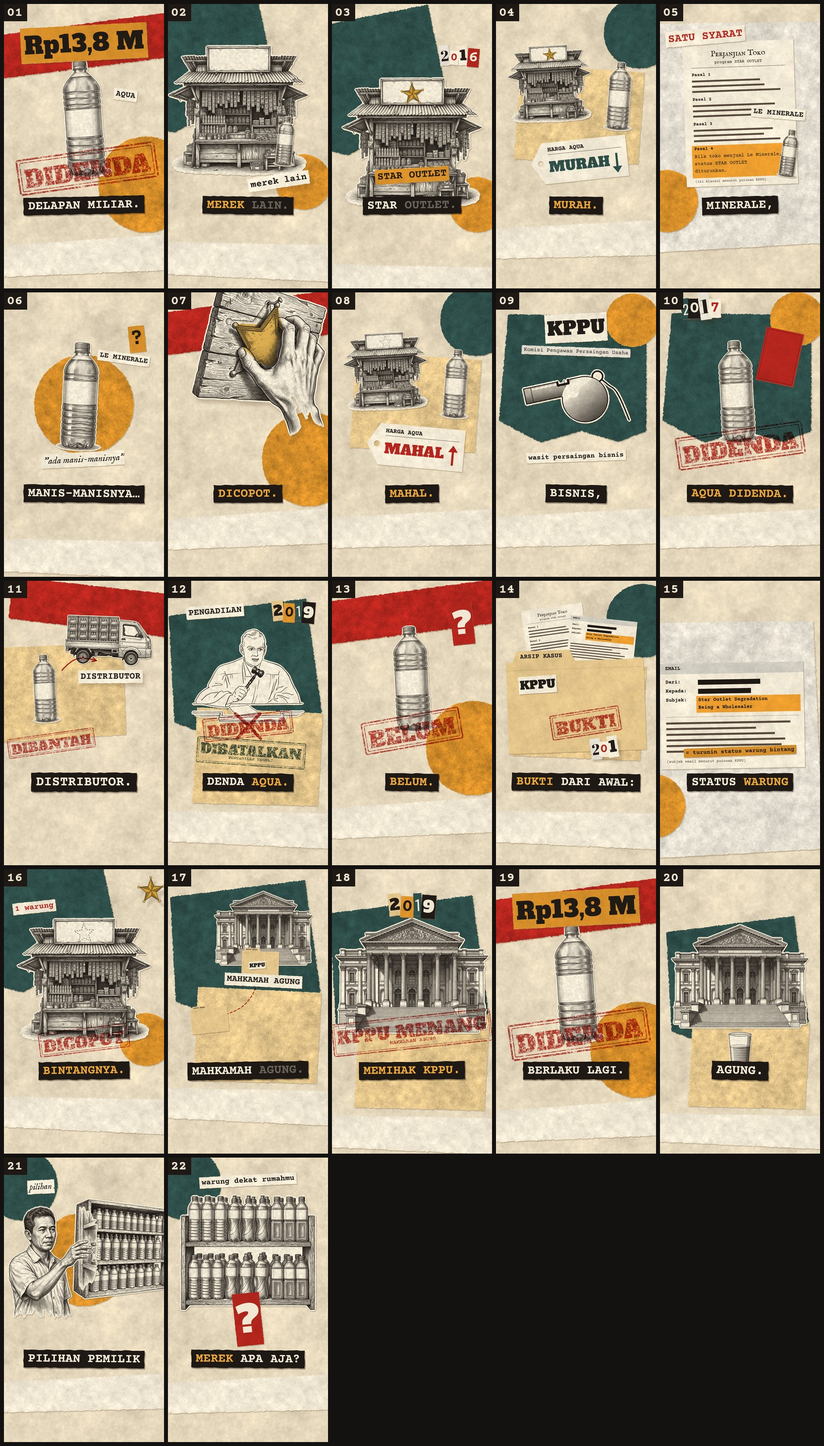
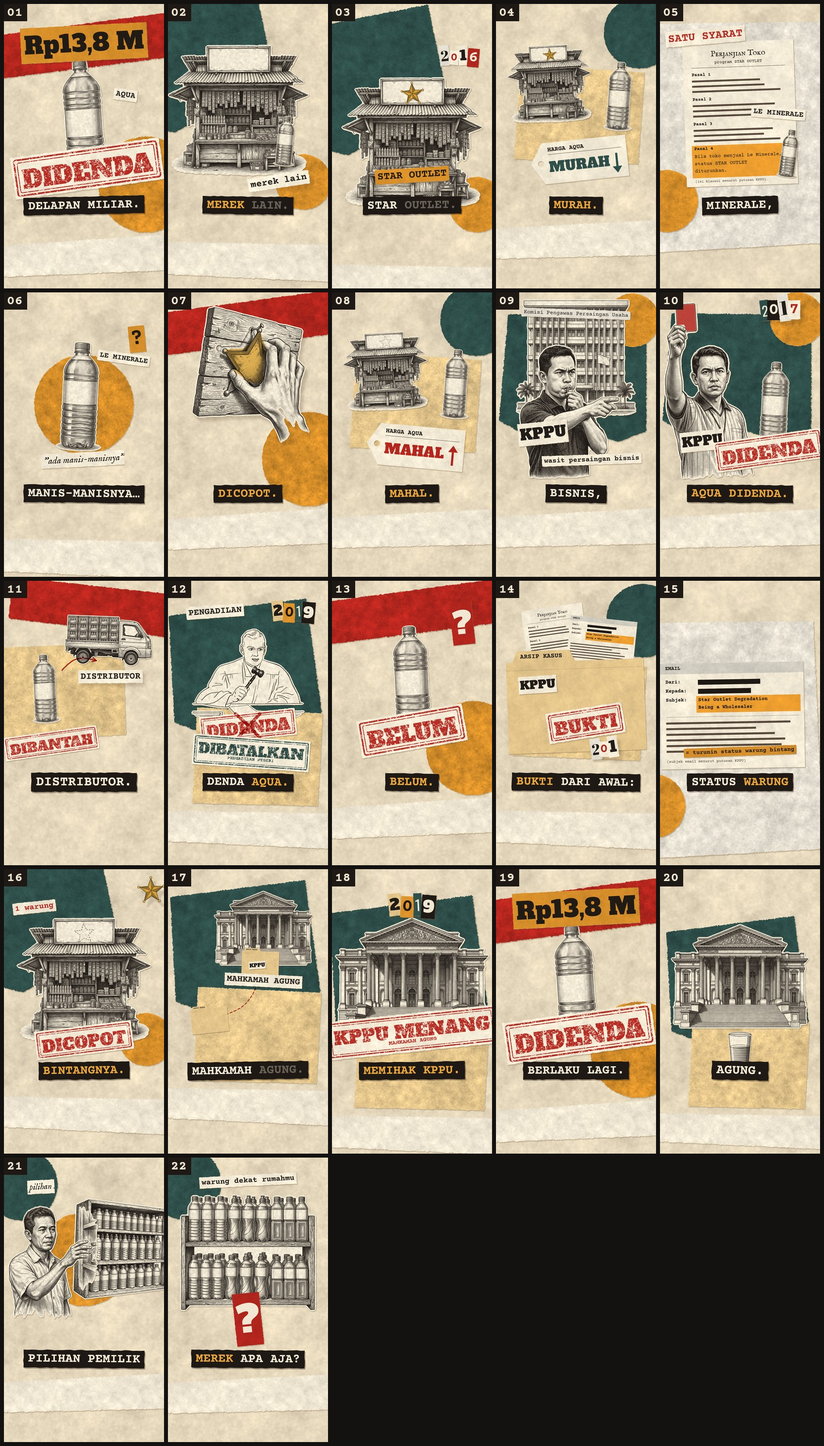
ARSIP #004 aqua: storyboard v1b (referee + office AI images in S09/S10, stamps on cream cards, S07 in frame)
Claude-Session: https://claude.ai/code/session_01BfnoLVZri9uAPP3UdHeCe6

diff --git a/stories/aqua/kolase/film.js b/stories/aqua/kolase/film.js
@@ -94,7 +94,7 @@ const SHOTS = [
   (u, T, d) => {
     const tc = at(6, 'dicopot');
     stage(u, d, { z0: 1.0, z1: 1.06, shake: [[tc + 0.1, 16]] }); bg(SET.hook);
-    putK('hand_star', [[0, 1100, 700, 12, 2, 1], [0.2, 560, 660, 0, 0, 1, 'back', 0.8], [tc, 560, 660, 0, 0, 1, 'hold'], [tc + 0.14, 680, 470, 14, 3.5, 1, 'out']], u, 80, { s: 1.15 });
+    putK('hand_star', [[0, 1100, 700, 12, 2, 1], [0.2, 540, 680, 0, 0, 1, 'back', 0.8], [tc, 540, 680, 0, 0, 1, 'hold'], [tc + 0.14, 600, 590, 9, 3.5, 1, 'out']], u, 80, { s: 1.0 });
   },
   // 08 · Harga Aqua-nya jadi lebih mahal.   same table as shot 04, star gone, the tag flips
   (u, T, d) => {
@@ -108,19 +108,21 @@ const SHOTS = [
   // 09 · KPPU, wasitnya persaingan bisnis,
   (u, T, d) => {
     stage(u, d, { z1: 1.06, shake: [[0.05, 10]] }); bg(SET.ref, u, true);
-    putK('s_kppu', slap(0.05, 540, 280, -3), u, 100);
-    putK('s_kppu2', slap(0.4, 540, 430, 2), u, 101);
-    if (has('whistle')) putK('whistle', [[0, 560, 700, -18, 3, 1, null, 0, 1.6], [0.12, 540, 760, -12, 0, 1, 'in', 1.2, 1.5]], u, 102);
-    putK('s_wasit', slap(at(8, 'wasitnya'), 540, 1100, -2), u, 103);
+    putK('kantor', slide(0, 0.25, 540, 470, 0, 0, -900, 0, 0.5), u, 99, { s: 0.95 });
+    putK('wasit_tiup', [[0, 500, 820, -3, 3, 1, null, 0, 1.1], [0.1, 500, 810, -2, 0, 1, 'in', 1.2, 1.0]], u, 102);
+    putK('s_kppu', slap(0.12, 330, 950, -6), u, 100, { s: 0.8 });
+    putK('s_kppu2', slap(0.45, 540, 190, 2), u, 101);
+    putK('s_wasit', slap(at(8, 'wasitnya'), 640, 1120, -2), u, 103);
   },
   // 10 · bilang itu persaingan nggak sehat. Aqua didenda.   the referee's red card, then the fine (2017)
   (u, T, d) => {
     const tk = at(9, 'nggak'), td = at(9, 'didenda');
     stage(u, d, { z0: 1.0, z1: 1.07, shake: [[tk, 8], [td, 12]] }); bg(SET.ref);
-    putK('bottle_hero', [[0, 520, 690, -3, 0, 1]], u, 110, { s: 0.88 });
-    putK('kartu', [[tk - 0.25, 1000, 260, 30, 4, 1], [tk, 790, 470, 12, 0, 1, 'in', 1.2]], u, 111);
-    stampAt('st_denda', u, td, 540, 1030, -8, 1.2);
-    if (u > td + 0.15) ransomRow('ry17', u, td + 0.15, 300, 180, 0.07, 0.8);
+    putK('bottle_hero', [[0, 760, 760, 3, 0, 1]], u, 110, { s: 0.7 });
+    putK('wasit_kartu', slide(tk - 0.25, tk, 330, 680, -3, -700, 0, 0, 0.8), u, 111, { s: 0.95 });
+    putK('s_kppu', slap(tk + 0.1, 300, 1000, -6), u, 112, { s: 0.7 });
+    stampAt('st_denda', u, td, 720, 1060, -8, 0.95);
+    if (u > td + 0.15) ransomRow('ry17', u, td + 0.15, 800, 190, 0.07, 0.8);
   },
   // 11 · Tapi Aqua membantah, katanya itu ulah distributor.
   (u, T, d) => {

diff --git a/stories/aqua/kolase/bake.py b/stories/aqua/kolase/bake.py
@@ -166,14 +166,28 @@ def documents():
 
 
 def stamps():
-    bk.stamp('st_denda', 'DIDENDA', 116, RED, seed=81)
-    bk.stamp('st_dibantah', 'DIBANTAH', 100, RED, seed=82)
-    bk.stamp('st_batal', 'DIBATALKAN', 92, GREEN * 0.85, seed=83, sub='PENGADILAN NEGERI')
-    bk.stamp('st_belum', 'BELUM', 120, RED, seed=84)
-    bk.stamp('st_dicopot', 'DICOPOT', 104, RED, seed=85)
-    bk.stamp('st_menang', 'KPPU MENANG', 92, RED, seed=86, sub='MAHKAMAH AGUNG')
-    bk.stamp('st_berlaku', 'BERLAKU LAGI', 84, RED, seed=87)
-    bk.stamp('st_bukti', 'BUKTI', 96, RED, seed=88)
+    """verdict stamps pressed onto a small cream card, so the red reads over busy engravings (review #004)."""
+    def card(name, text, size, color, seed, sub=None):
+        bk.stamp(name + '_ink', text, size, color, seed=seed, sub=sub)
+        a = np.asarray(Image.open(os.path.join(bk.out, name + '_ink.png')), float)[..., 3] / 255
+        os.remove(os.path.join(bk.out, name + '_ink.png')); bk.M.pop(name + '_ink')
+        a = np.clip(a * 1.7, 0, 1)
+        P = int(14 * bk.B); h, w = a.shape
+        A = np.zeros((h + 2 * P, w + 2 * P)); A[P:P + h, P:P + w] = a
+        m = np.zeros(A.shape, bool); m[P // 3:-P // 3, P // 3:-P // 3] = True
+        from collage_lib import torn, paper_texture
+        body, _ = torn(m, rough=1.2 * bk.B, seed=seed, amp=0.4)
+        tex = paper_texture(*A.shape, seed=seed, fibers=200); tex = 1 + (tex - 1) * 0.6
+        col = CARD[None, None, :] * tex[..., None]
+        col = col * (1 - A[..., None]) + color * A[..., None]
+        bk.save(name, col, body)
+    card('st_denda', 'DIDENDA', 120, RED, 81)
+    card('st_dibantah', 'DIBANTAH', 104, RED, 82)
+    card('st_batal', 'DIBATALKAN', 96, GREEN * 0.85, 83, sub='PENGADILAN NEGERI')
+    card('st_belum', 'BELUM', 124, RED, 84)
+    card('st_dicopot', 'DICOPOT', 108, RED, 85)
+    card('st_menang', 'KPPU MENANG', 96, RED, 86, sub='MAHKAMAH AGUNG')
+    card('st_bukti', 'BUKTI', 100, RED, 88)
 
 
 def slips():
